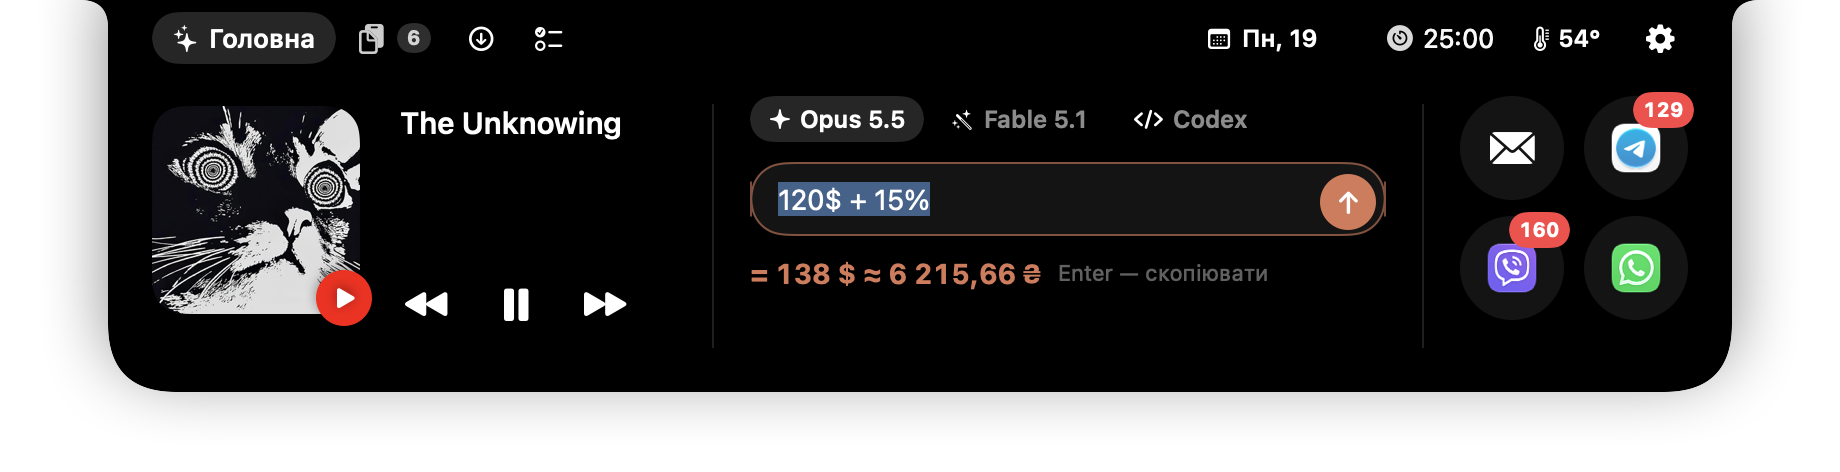
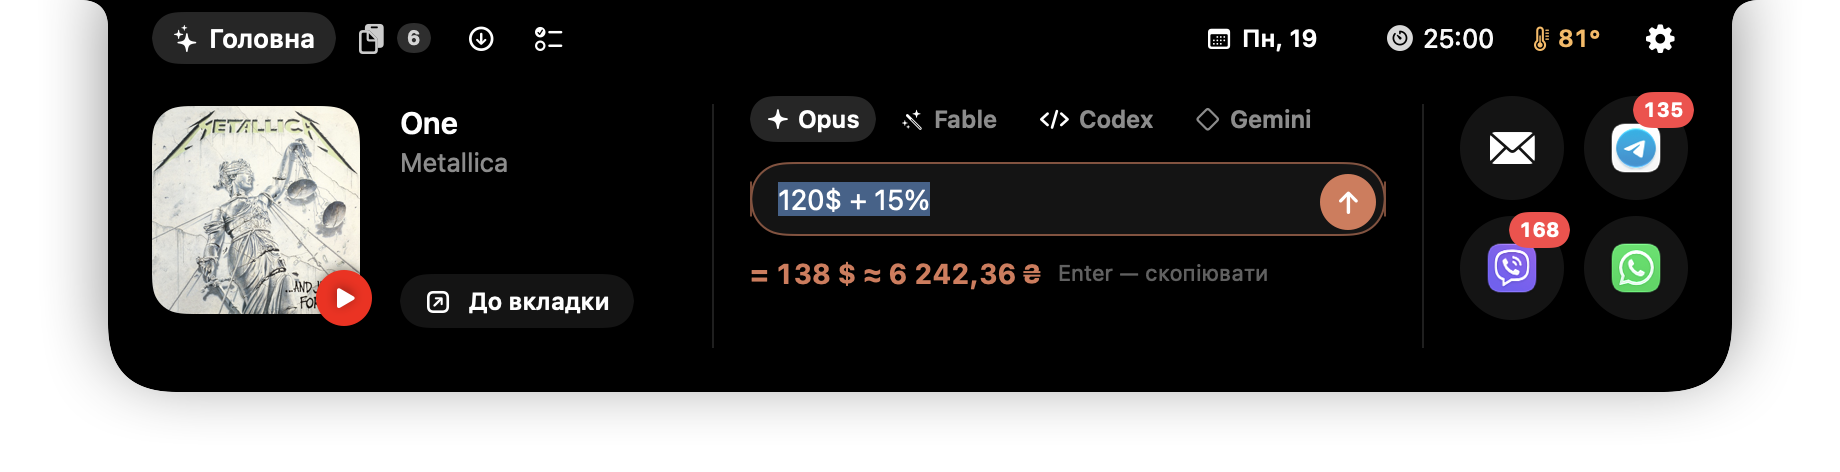
Нові картинки панелі в README

diff --git a/README.md b/README.md
@@ -8,6 +8,10 @@
 |---|---|
 | ![Буфер](docs/preview-clips.png) | ![Налаштування](docs/preview-settings.png) |
 
+| Відповідь ШІ | Система |
+|---|---|
+| ![Відповідь](docs/preview-answer.png) | ![Система](docs/preview-system.png) |
+
 > 🇬🇧 English summary is [below](#english).
 
 ## Що вміє
